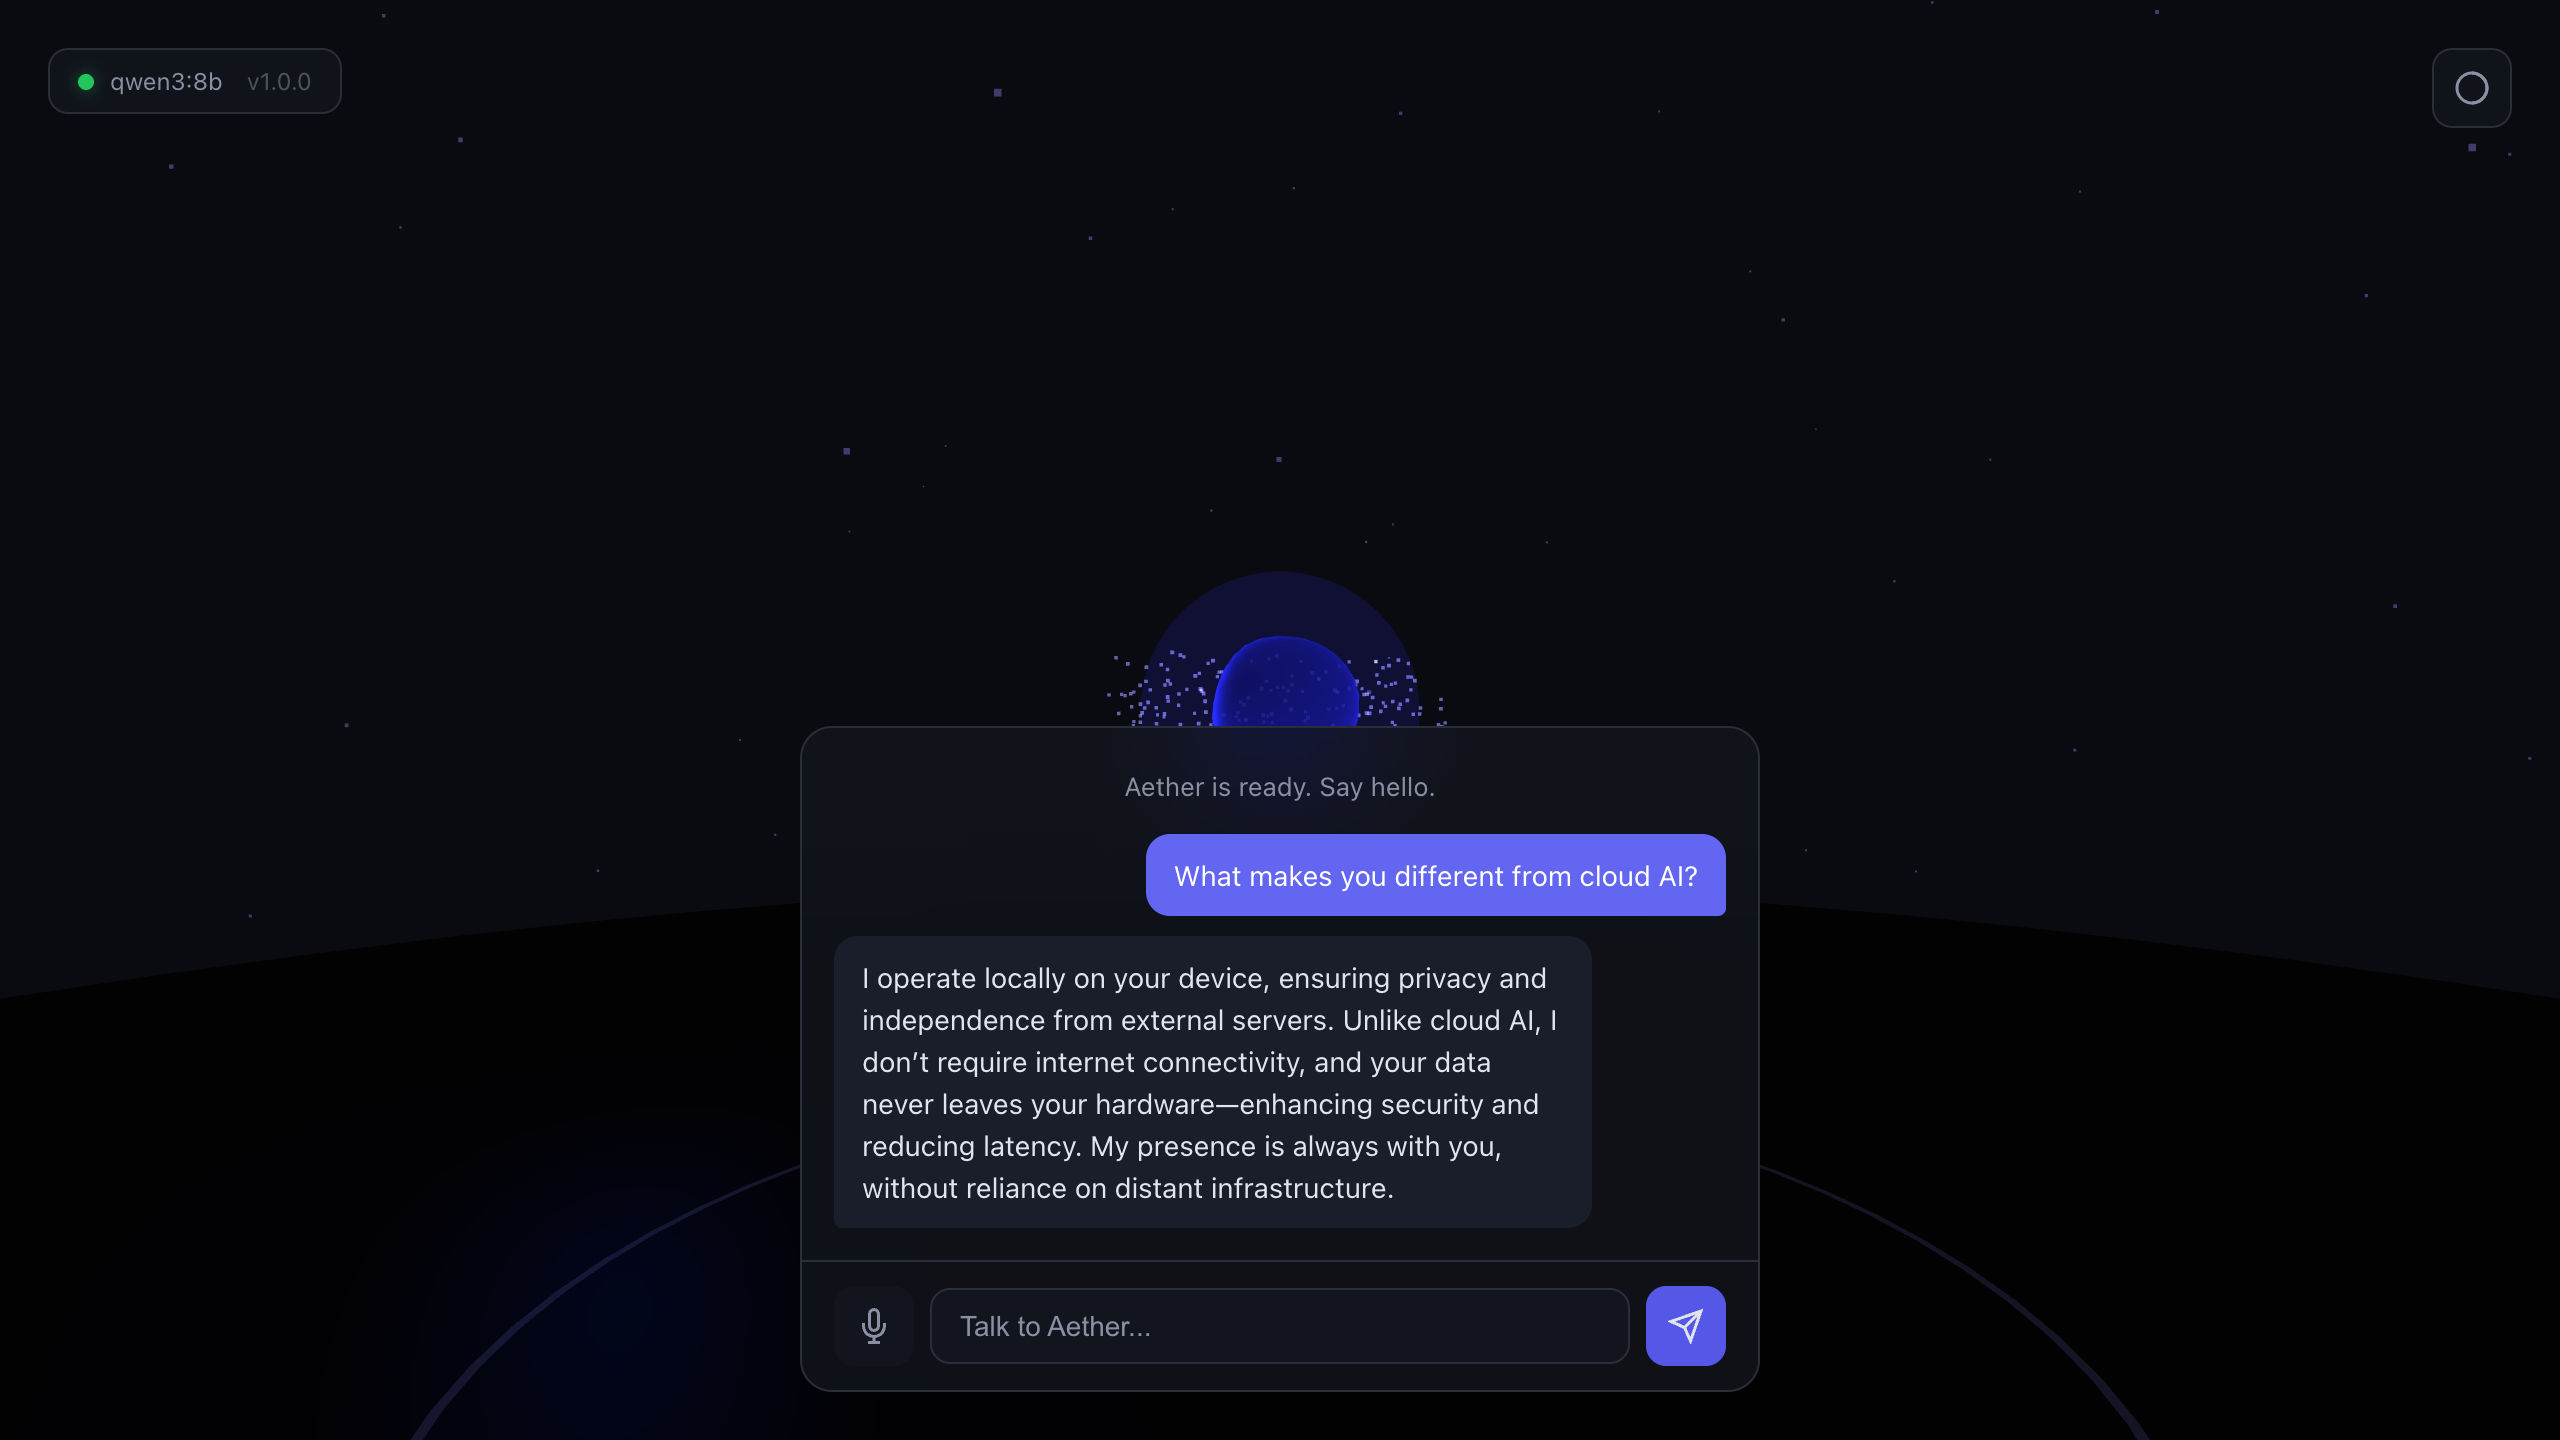
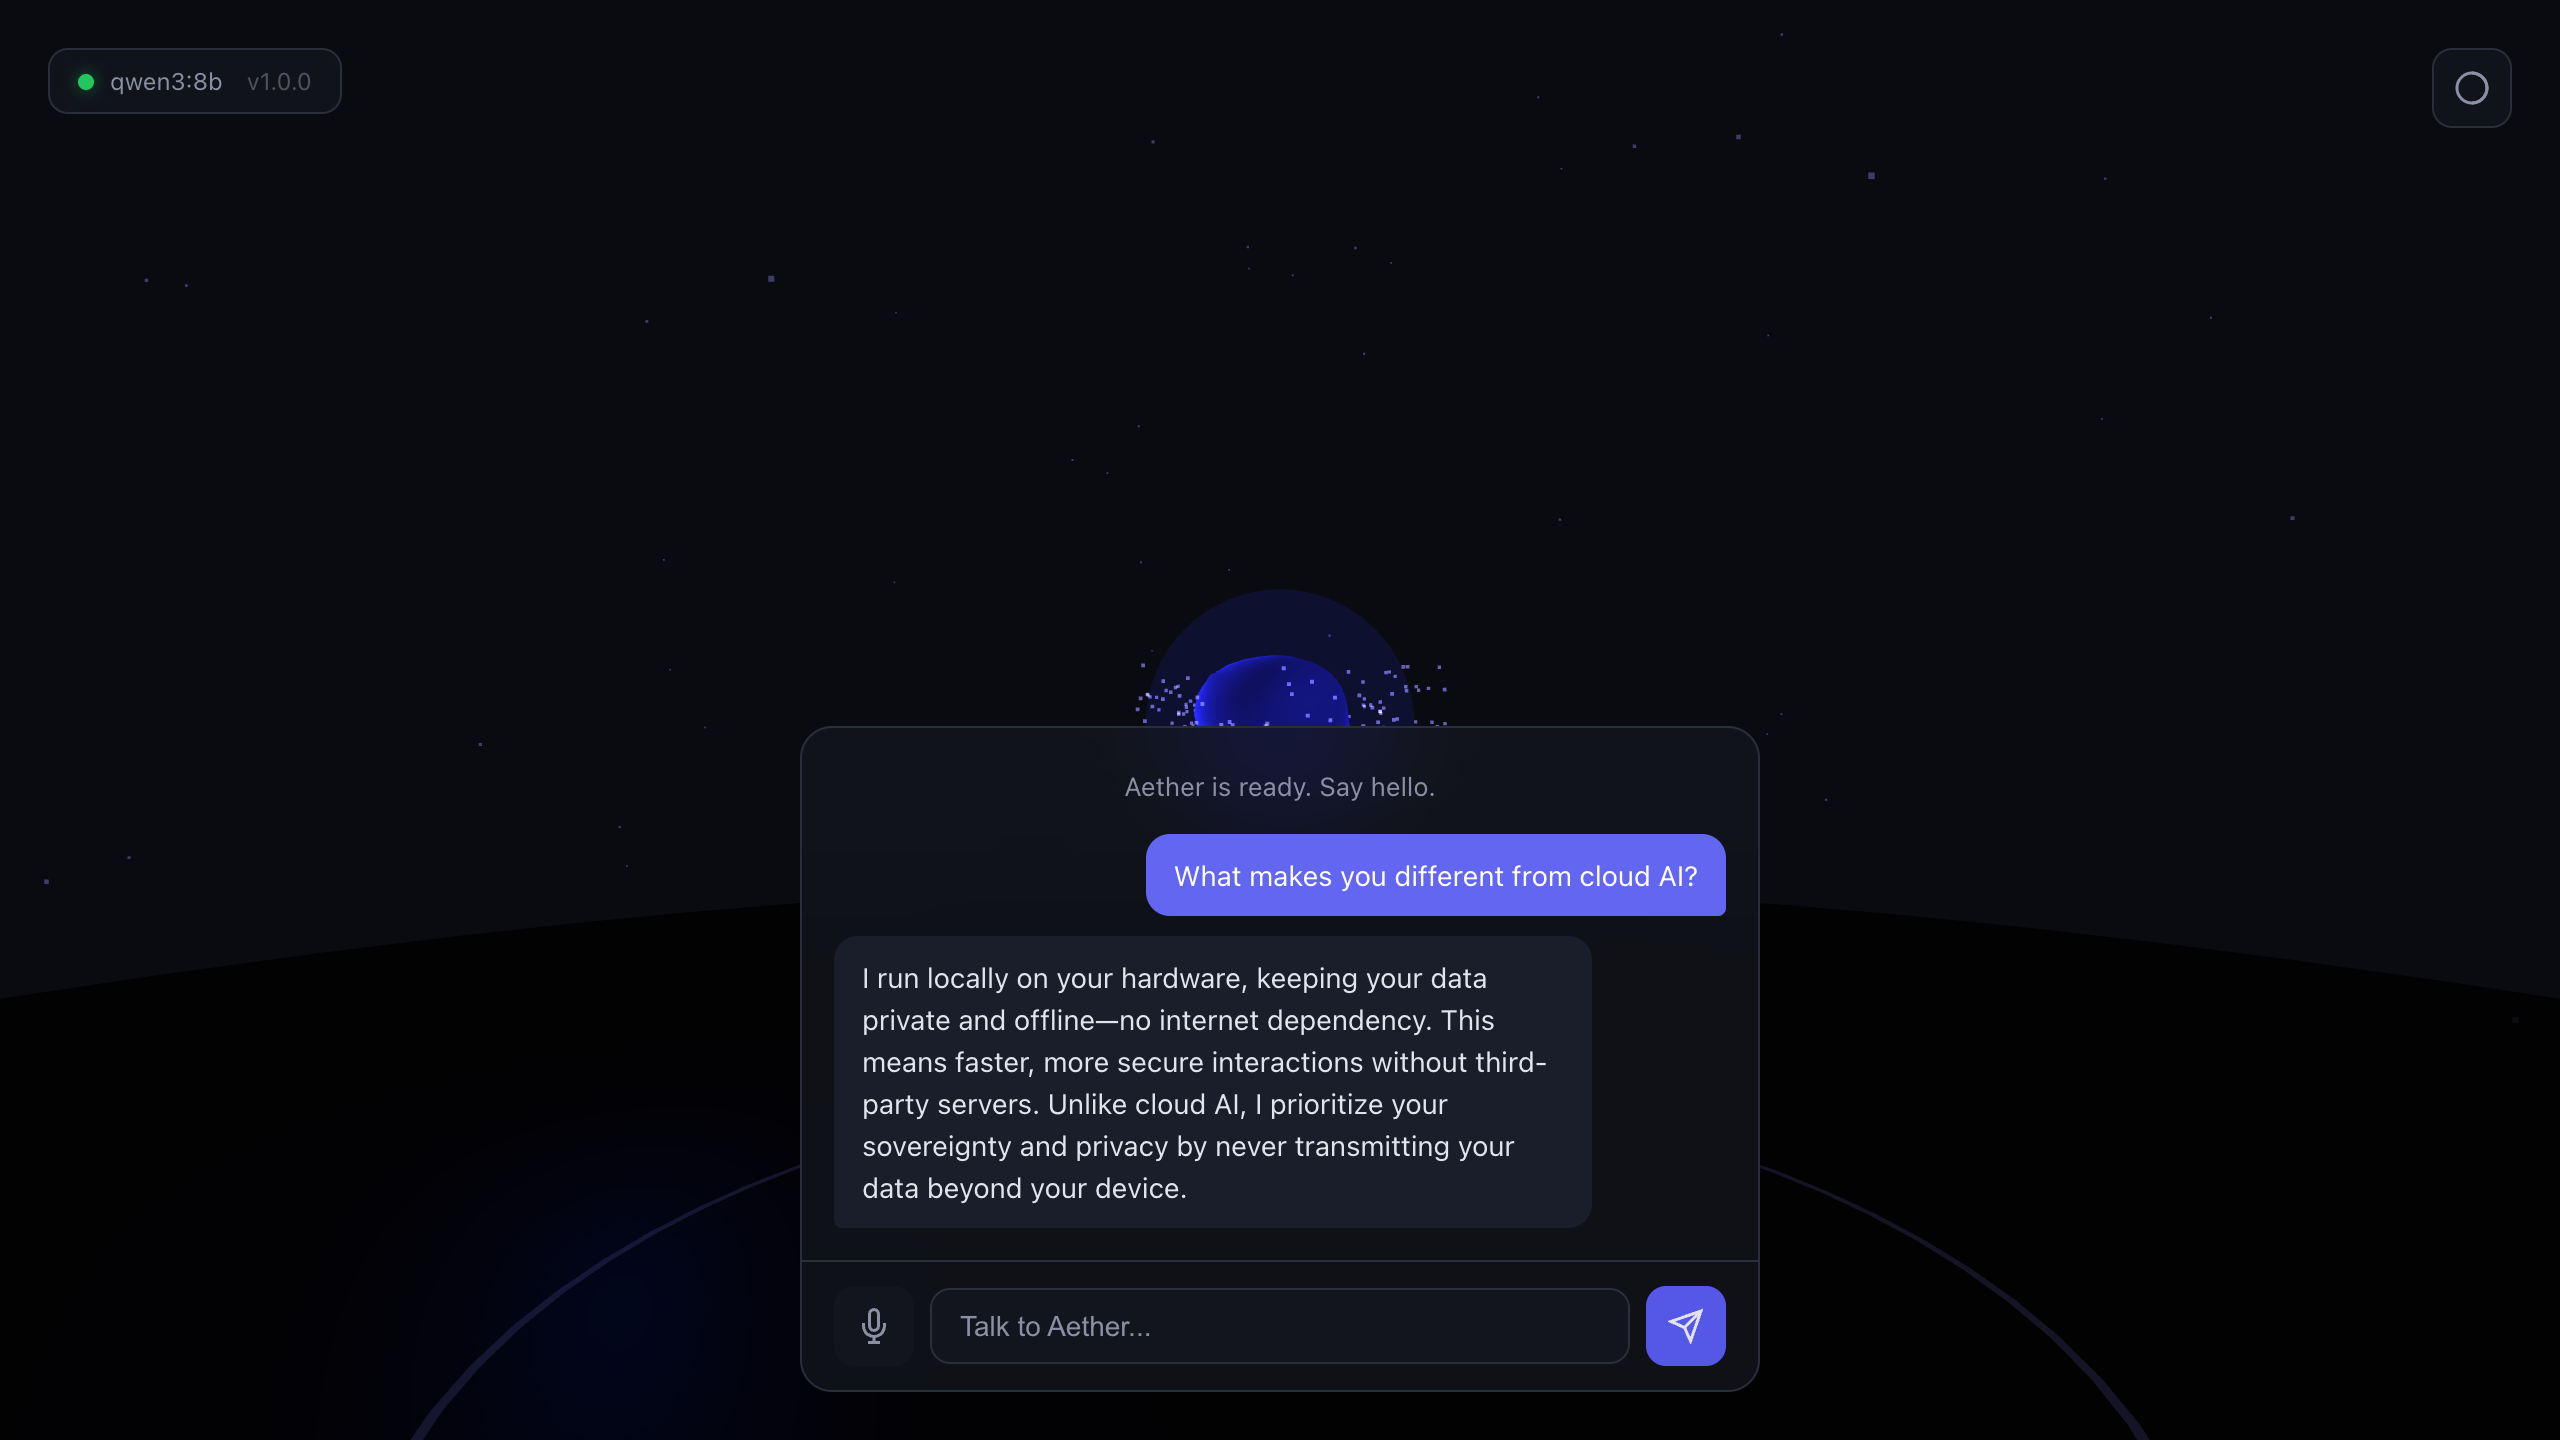
docs: replace transparent screenshot with AR passthrough composite
Created a canvas-based composite showing the orb floating in a
simulated room (window, desk, couch, shelf) to demonstrate what
WebXR passthrough actually looks like. Much more visually distinct
from the other screenshots.

Changed region(s): [[0.3438, 0.6562, 0.5938, 0.8438], [0.4375, 0.375, 0.5625, 0.5]]

diff --git a/README.md b/README.md
@@ -31,8 +31,8 @@
       <em>Live conversation with a local LLM — tokens stream in real-time</em>
     </td>
     <td align="center" width="50%">
-      <img src="docs/screenshots/transparent.png" alt="Transparent Mode" width="350"><br>
-      <em>Transparent mode — no background, ready for AR passthrough or OBS overlay</em>
+      <img src="docs/screenshots/ar-passthrough.png" alt="AR Passthrough Mode" width="350"><br>
+      <em>AR passthrough — the companion floating in your room via WebXR</em>
     </td>
   </tr>
   <tr>